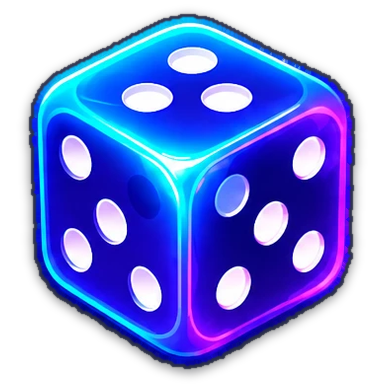
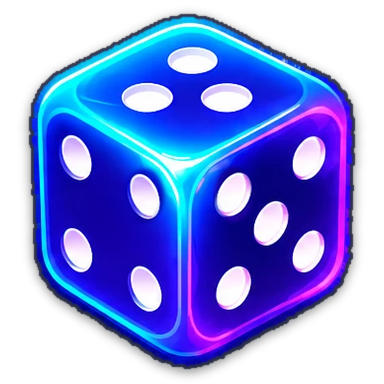
v4.63: roleta "Ouro com luzes" e ícone do dado corrigido
- Novo estilo de roleta (ouro) com o aro, o botão azul e o ponteiro da arte da
  Alex (assets/roleta/aro.png, borda limpa); fatias e nomes continuam
  desenhados pelo app por baixo do aro; nomes terminam antes da ponta do ponteiro.
- Entrada no menu de estilos (botão de paleta) com miniatura e textos em
  pt/en/es/de; setas do Tambor usam o ponteiro do estilo escolhido.
- Ícone do modo Dados: face esquerda ganhou o 4 (sem a mancha escura) e a face
  direita teve a bolinha azulada pintada de branco; topo 3, esquerda 4, direita 5.

Claude-Session: https://claude.ai/code/session_015dQVX5he81UZAVxRVU3HWs

Changed region(s): [[0.2188, 0.4375, 0.4375, 0.6562], [0.5312, 0.4062, 0.6562, 0.5938]]

diff --git a/src/screens/RouletteScreen.js b/src/screens/RouletteScreen.js
@@ -2,7 +2,7 @@ import React, { useEffect, useRef, useState } from 'react';
 import { View, Animated, Easing, PanResponder, useWindowDimensions, StyleSheet } from 'react-native';
 import Text from '../components/Text';
 import Svg, { Path, Circle, Polygon, Defs, RadialGradient, Stop, Text as SvgText } from 'react-native-svg';
-import { lookOf, rimWidth, WheelRim, WheelHub, WheelPointer } from '../components/WheelArt';
+import { lookOf, rimWidth, WheelRim, WheelHub, WheelPointer, WheelBezel, bezelGeom, IMG } from '../components/WheelArt';
 import Header from '../components/Header';
 import ScreenTitle from '../components/ScreenTitle';
 import LightningField from '../components/LightningField';
@@ -33,10 +33,13 @@ const Wheel = React.memo(function Wheel({ participants, size, look }) {
   const slice = 360 / n;
   const c = size / 2;
   const u = size / 380;
-  const r = c - 3 - rimWidth(look, size, RIM);
+  const img = !!(look && look.image); // estilo de imagem: o disco vai até debaixo do aro e só parte dele aparece
+  const k = img ? c / IMG.disc : 1;   // px da tela por px da imagem
+  const r = img ? c - 2 : c - 3 - rimWidth(look, size, RIM);
+  const rVis = img ? IMG.vis * k : r; // até onde as fatias sempre aparecem
   // nomes na vertical (ao longo do raio, lendo do centro para a borda): cabe bem mais letras do que de lado
-  const rIn = r * 0.26, rOut = r * 0.95;
-  const fontSize = Math.max(9, Math.min(17, r * 0.3 * ((2 * Math.PI) / n) * 0.8)); // fatias estreitas = letra menor
+  const rIn = img ? IMG.hub * k * 1.12 : r * 0.26, rOut = img ? Math.min(rVis * 0.95, (IMG.tip - 12) * k) : rVis * 0.95;
+  const fontSize = Math.max(9, Math.min(17, rVis * 0.3 * ((2 * Math.PI) / n) * 0.8)); // fatias estreitas = letra menor
   const maxChars = Math.max(4, Math.floor((rOut - rIn) / (fontSize * 0.58)));
   const cols = participants.map((p, i) => {
     let color = colorOf(p, i);
@@ -63,7 +66,7 @@ const Wheel = React.memo(function Wheel({ participants, size, look }) {
           <RadialGradient id="wsh" cx="0.5" cy="0.5" r="0.5">
             <Stop offset="0" stopColor="#000814" stopOpacity={look.shade} />
             <Stop offset="0.55" stopColor="#000814" stopOpacity={0} />
-            <Stop offset="1" stopColor="#FFFFFF" stopOpacity={0.12} />
+            <Stop offset="1" stopColor="#FFFFFF" stopOpacity={look.light !== undefined ? look.light : 0.12} />
           </RadialGradient>
         </Defs>
       )}
@@ -76,6 +79,13 @@ const Wheel = React.memo(function Wheel({ participants, size, look }) {
       {look && <Circle cx={c} cy={c} r={r} fill="url(#wsh)" />}
       {look && look.rays && <Path d={rayL} stroke="#FFFFFF" strokeOpacity={0.1} strokeWidth={1} fill="none" />}
       {look && look.rays && <Path d={rayD} stroke="#000814" strokeOpacity={0.12} strokeWidth={1} fill="none" />}
+      {/* brilho de quina (como na arte): um fio claro colado na divisória de cada fatia e outro no arco de fora */}
+      {look && look.gloss && participants.map((p, i) => {
+        const a0 = i * slice + Math.min(1.4, slice * 0.08), a1 = (i + 1) * slice - Math.min(1.4, slice * 0.08);
+        const rg = rVis * 0.975;
+        const d = `M ${pt(c, a0, rIn * 1.05)} L ${pt(c, a0, rg)} A ${rg} ${rg} 0 ${slice > 180 ? 1 : 0} 1 ${pt(c, a1, rg)}`;
+        return <Path key={`g${p.id}`} d={d} stroke="#FFFFFF" strokeOpacity={0.38} strokeWidth={Math.max(1, 1.5 * u)} strokeLinecap="round" strokeLinejoin="round" fill="none" />;
+      })}
       {participants.map((p, i) => {
         const a0 = i * slice;
         const color = cols[i];
@@ -328,6 +338,9 @@ export default function RouletteScreen({ participants, back, replace, addHistory
       {/* área de deslize: vai do subtítulo até o botão GIRAR */}
       <View {...pan.panHandlers} style={styles.zone} onLayout={(e) => { setZoneY(e.nativeEvent.layout.y); setZoneH(e.nativeEvent.layout.height); }}>
         <View style={styles.zoneInner} onLayout={(e) => setInnerY(e.nativeEvent.layout.y)}>
+          {look && look.image ? (
+            <View style={{ height: 34 }} /> /* o ponteiro faz parte da imagem do aro; este espaço mantém a roda no mesmo lugar */
+          ) : (
           <Animated.View style={[styles.pointer, { transform: [{ rotate: pointerRot }] }]}>
             {look ? <WheelPointer look={look} /> : (
               <Svg width={50} height={60} viewBox="0 0 50 60">
@@ -336,6 +349,17 @@ export default function RouletteScreen({ participants, back, replace, addHistory
               </Svg>
             )}
           </Animated.View>
+          )}
+          {look && look.image ? (
+            <View style={{ width: size, height: size }}>
+              {(() => { const g = bezelGeom(size); return (
+                <Animated.View style={{ position: 'absolute', left: g.disc.left, top: g.disc.top, width: g.disc.D, height: g.disc.D, transform: [{ rotate }] }}>
+                  <Wheel participants={participants} size={g.disc.D} look={look} />
+                </Animated.View>
+              ); })()}
+              <WheelBezel size={size} />
+            </View>
+          ) : (
           <View style={{ width: size, height: size }}>
             <Animated.View style={{ width: size, height: size, transform: [{ rotate }] }}>
               <Wheel participants={participants} size={size} look={look} />
@@ -343,6 +367,7 @@ export default function RouletteScreen({ participants, back, replace, addHistory
             </Animated.View>
             {look && <WheelHub size={size} look={look} />}
           </View>
+          )}
           {showArrows && (
             <View style={[styles.arrows, spinning && { opacity: 0 }]} pointerEvents="none" importantForAccessibility="no-hide-descendants" accessibilityElementsHidden>
               <SwipeArrows active={!spinning} />

diff --git a/src/i18n.js b/src/i18n.js
@@ -143,7 +143,7 @@ const pt = {
   'look.btn': 'Estilo visual',
   'look.hint': 'Segure por 1 segundo para escolher o estilo',
   'look.title.wheel': 'Estilo da roleta', 'look.title.dice': 'Estilo dos dados',
-  'look.wheel.atual': 'Clássica', 'look.wheel.neon': 'Neon violeta', 'look.wheel.rubi': 'Rubi e azul', 'look.wheel.arco': 'Arco-íris', 'look.wheel.laranja': 'Laranja',
+  'look.wheel.atual': 'Clássica', 'look.wheel.neon': 'Neon violeta', 'look.wheel.rubi': 'Rubi e azul', 'look.wheel.arco': 'Arco-íris', 'look.wheel.laranja': 'Laranja', 'look.wheel.ouro': 'Ouro com luzes',
   'look.dice.plastic': 'Clássico', 'look.dice.neon': 'Vidro neon', 'look.dice.cartoon': 'Plástico com contorno', 'look.dice.gold': 'Aro dourado',
   'look.close': 'Fechar', 'look.selected': 'selecionado', 'look.chosen': 'Estilo {name}',
   'look.moveL': 'Mover para a esquerda', 'look.moveR': 'Mover para a direita', 'look.moveU': 'Mover para cima', 'look.moveD': 'Mover para baixo',
@@ -287,7 +287,7 @@ const en = {
   'look.btn': 'Visual style',
   'look.hint': 'Hold for 1 second to choose the style',
   'look.title.wheel': 'Wheel style', 'look.title.dice': 'Dice style',
-  'look.wheel.atual': 'Classic', 'look.wheel.neon': 'Violet neon', 'look.wheel.rubi': 'Ruby and blue', 'look.wheel.arco': 'Rainbow', 'look.wheel.laranja': 'Orange',
+  'look.wheel.atual': 'Classic', 'look.wheel.neon': 'Violet neon', 'look.wheel.rubi': 'Ruby and blue', 'look.wheel.arco': 'Rainbow', 'look.wheel.laranja': 'Orange', 'look.wheel.ouro': 'Gold with lights',
   'look.dice.plastic': 'Classic', 'look.dice.neon': 'Neon glass', 'look.dice.cartoon': 'Outlined plastic', 'look.dice.gold': 'Gold rim',
   'look.close': 'Close', 'look.selected': 'selected', 'look.chosen': '{name} style',
   'look.moveL': 'Move left', 'look.moveR': 'Move right', 'look.moveU': 'Move up', 'look.moveD': 'Move down',
@@ -431,7 +431,7 @@ const es = {
   'look.btn': 'Estilo visual',
   'look.hint': 'Mantén pulsado 1 segundo para elegir el estilo',
   'look.title.wheel': 'Estilo de la ruleta', 'look.title.dice': 'Estilo de los dados',
-  'look.wheel.atual': 'Clásica', 'look.wheel.neon': 'Neón violeta', 'look.wheel.rubi': 'Rubí y azul', 'look.wheel.arco': 'Arcoíris', 'look.wheel.laranja': 'Naranja',
+  'look.wheel.atual': 'Clásica', 'look.wheel.neon': 'Neón violeta', 'look.wheel.rubi': 'Rubí y azul', 'look.wheel.arco': 'Arcoíris', 'look.wheel.laranja': 'Naranja', 'look.wheel.ouro': 'Oro con luces',
   'look.dice.plastic': 'Clásico', 'look.dice.neon': 'Cristal neón', 'look.dice.cartoon': 'Plástico con contorno', 'look.dice.gold': 'Borde dorado',
   'look.close': 'Cerrar', 'look.selected': 'seleccionado', 'look.chosen': 'Estilo {name}',
   'look.moveL': 'Mover a la izquierda', 'look.moveR': 'Mover a la derecha', 'look.moveU': 'Mover hacia arriba', 'look.moveD': 'Mover hacia abajo',
@@ -575,7 +575,7 @@ const de = {
   'look.btn': 'Optik',
   'look.hint': '1 Sekunde gedrückt halten, um den Stil zu wählen',
   'look.title.wheel': 'Stil des Glücksrads', 'look.title.dice': 'Stil der Würfel',
-  'look.wheel.atual': 'Klassisch', 'look.wheel.neon': 'Violettes Neon', 'look.wheel.rubi': 'Rubin und Blau', 'look.wheel.arco': 'Regenbogen', 'look.wheel.laranja': 'Orange',
+  'look.wheel.atual': 'Klassisch', 'look.wheel.neon': 'Violettes Neon', 'look.wheel.rubi': 'Rubin und Blau', 'look.wheel.arco': 'Regenbogen', 'look.wheel.laranja': 'Orange', 'look.wheel.ouro': 'Gold mit Lichtern',
   'look.dice.plastic': 'Klassisch', 'look.dice.neon': 'Neon-Glas', 'look.dice.cartoon': 'Kunststoff mit Kontur', 'look.dice.gold': 'Goldrand',
   'look.close': 'Schließen', 'look.selected': 'ausgewählt', 'look.chosen': 'Stil {name}',
   'look.moveL': 'Nach links', 'look.moveR': 'Nach rechts', 'look.moveU': 'Nach oben', 'look.moveD': 'Nach unten',

diff --git a/src/components/WheelArt.js b/src/components/WheelArt.js
@@ -1,4 +1,5 @@
 import React, { useEffect, useState } from 'react';
+import { View, Image } from 'react-native';
 import Svg, { Defs, RadialGradient, LinearGradient, Stop, Circle, Path, Polygon, G, Ellipse } from 'react-native-svg';
 import { FILL } from '../theme';
 import { getSettings } from '../settings';
@@ -55,7 +56,56 @@ const LOOKS = {
     hub: { ring: ['#FFE9A6', '#E9A21B', '#8F5200'], orb: ['#FFA6CF', '#E0115F', '#5E0830'], bolt: ['#FFFFFF', '#FFD9EA'] },
     pointer: { kind: 'gem', rim: ['#FFC266', '#FF7A00', '#A33C00'], gem: ['#C07BFF', '#5B1FA8', '#1D0A3D'] },
   },
+  // 5) ouro com luzes (arte do Alex): aro dourado com lâmpadas, botão azul e ponteiro de gota dourada vêm da IMAGEM
+  //    (assets/roleta/aro.png, com a área das fatias vazada); as fatias e os nomes continuam sendo desenhados pelo app.
+  //    Os campos de aro/lâmpadas abaixo só existem para o resto do código não quebrar: com image:true eles não são usados.
+  ouro: {
+    image: true,
+    rim: 0,
+    outer: { c: '#FFD166', glow: '#F59E0B', w: 3 },
+    inner: { c: '#2F8BFF', hl: '#BDEBFF', w: 3 },
+    tube: [['#8A4B00', 1], ['#E9A21B', 0.7], ['#FFD166', 0.4]],
+    bulbs: { kind: 'dot', r: 3.2, on: '#FFFBE0', off: '#B8860B' },
+    divider: { c: '#0A0A26', w: 3 }, rays: false, shade: 0.2, light: 0, gloss: true,
+    hub: { ring: ['#FFE9A6', '#E9A21B', '#8F5200'], orb: ['#F4FEFF', '#7DD0FF', '#2468E0'], bolt: ['#1559D8', '#FFFFFF'] },
+    pointer: { kind: 'gem', rim: ['#FFE28F', '#F59E0B', '#B45309'], gem: ['#FFF7B0', '#FFC21A', '#C77700'] },
+  },
 };
+
+// Medidas da imagem do aro (em pixels da imagem original, 1232 x 1230):
+//   cx, cy, R = centro e raio de fora do aro · hx, hy = centro do botão azul (as fatias giram em volta dele)
+//   disc = raio do disco de fatias (passa por baixo do aro) · vis = raio que sempre aparece dentro do aro · hub = raio do botão
+//   tip = distância da ponta do ponteiro até o centro (os nomes terminam antes dela, para o ponteiro não cobrir o fim do nome vencedor)
+export const IMG = { w: 1232, h: 1230, cx: 624.0, cy: 622.3, R: 594, hx: 625.5, hy: 626.0, disc: 538, vis: 488, hub: 116, tip: 429 };
+const ARO = require('../../assets/roleta/aro.png');
+const ARO_MINI = require('../../assets/roleta/aro_mini.png');
+
+// Onde cada peça fica numa roda de `size` px (o tamanho é o diâmetro de fora do aro)
+export function bezelGeom(size) {
+  const s = size / (2 * IMG.R);
+  const hx = size / 2 + (IMG.hx - IMG.cx) * s, hy = size / 2 + (IMG.hy - IMG.cy) * s;
+  return {
+    s,
+    img: { left: size / 2 - IMG.cx * s, top: size / 2 - IMG.cy * s, width: IMG.w * s, height: IMG.h * s },
+    disc: { D: 2 * IMG.disc * s, left: hx - IMG.disc * s, top: hy - IMG.disc * s },
+    hub: { x: hx, y: hy, r: IMG.hub * s },
+  };
+}
+
+// Aro de imagem (parado, por cima das fatias): sombra do botão + a imagem com o buraco das fatias
+export const WheelBezel = React.memo(function WheelBezel({ size, mini }) {
+  const g = bezelGeom(size);
+  return (
+    <View pointerEvents="none" style={{ position: 'absolute', left: 0, top: 0, width: size, height: size }}>
+      {!mini && (
+        <Svg width={size} height={size} style={FILL}>
+          <Circle cx={g.hub.x} cy={g.hub.y + g.hub.r * 0.04} r={g.hub.r + 2.5 * (size / 380)} fill="#000814" fillOpacity={0.5} />
+        </Svg>
+      )}
+      <Image source={mini ? ARO_MINI : ARO} resizeMode="stretch" fadeDuration={0} style={{ position: 'absolute', ...g.img }} />
+    </View>
+  );
+});
 
 export const WHEEL_LOOKS = ['atual', ...Object.keys(LOOKS)];
 export const lookOf = (name) => LOOKS[name] || null;       // 'atual' (ou nome desconhecido) = null = desenho de sempre

diff --git a/src/components/LookThumbs.js b/src/components/LookThumbs.js
@@ -1,7 +1,7 @@
 import React from 'react';
 import { View } from 'react-native';
 import Svg, { Circle, Path, Rect, Ellipse } from 'react-native-svg';
-import { lookOf, WheelRing } from './WheelArt';
+import { lookOf, WheelRing, WheelBezel, bezelGeom, IMG } from './WheelArt';
 
 // Miniaturas do menu de estilos (roleta e dados). Só traços e cores lisas (sem degradês),
 // então várias miniaturas na mesma tela não se confundem entre si.
@@ -15,6 +15,22 @@ const polar = (c, deg, r) => {
 // Roleta: fatias coloridas + o aro do estilo (o mesmo desenho da roda, em ponto pequeno) + centro
 export function WheelThumb({ look: name, size = 36 }) {
   const look = lookOf(name);
+  if (look && look.image) {
+    // estilo de imagem: fatias lisas por baixo e a imagem do aro (versão pequena) por cima
+    const g = bezelGeom(size);
+    const r = IMG.vis * 0.97 * g.s;
+    const pp = (deg) => { const a = (deg * Math.PI) / 180; return `${(g.hub.x + r * Math.sin(a)).toFixed(2)} ${(g.hub.y - r * Math.cos(a)).toFixed(2)}`; };
+    return (
+      <View style={{ width: size, height: size }}>
+        <Svg width={size} height={size} style={{ position: 'absolute', left: 0, top: 0 }}>
+          {SLICES.map((col, i) => (
+            <Path key={i} d={`M ${g.hub.x} ${g.hub.y} L ${pp(i * 60)} A ${r} ${r} 0 0 1 ${pp((i + 1) * 60)} Z`} fill={col} />
+          ))}
+        </Svg>
+        <WheelBezel size={size} mini />
+      </View>
+    );
+  }
   const c = size / 2;
   // o aro de verdade é fino demais para 36 px: nas miniaturas ele fica mais grosso
   const big = look && {

diff --git a/src/looks.js b/src/looks.js
@@ -1,13 +1,13 @@
 // Estilos da roleta e dos dados que o usuário pode escolher (pelo botão flutuante de paleta).
 // A escolha fica salva nas configurações (wheelLook / diceLook); aqui ficam só as listas e o padrão de quem ainda não escolheu.
-//   wheel: 'atual' | 'neon' | 'rubi' | 'arco' | 'laranja'   (veja src/components/WheelArt.js)
+//   wheel: 'atual' | 'neon' | 'rubi' | 'arco' | 'laranja' | 'ouro'   (veja src/components/WheelArt.js)
 //   dice:  'plastic' | 'neon' | 'cartoon' | 'gold'          (veja src/components/Dice3D.js; 'metal' também existe lá, mas fica fora do menu)
 // Para mudar o estilo que aparece na primeira abertura do app, troque só DEFAULT_LOOKS.
 export const DEFAULT_LOOKS = { wheel: 'atual', dice: 'plastic' };
 
 // ordem em que os estilos aparecem no menu
 export const LOOK_OPTIONS = {
-  wheel: ['atual', 'neon', 'rubi', 'arco', 'laranja'],
+  wheel: ['atual', 'neon', 'rubi', 'arco', 'laranja', 'ouro'],
   dice: ['plastic', 'neon', 'cartoon', 'gold'],
 };
 

diff --git a/README.md b/README.md
@@ -13,7 +13,7 @@ Aplicativo de sorteios feito em **React Native (Expo)** com foco em **imersão e
 | Modo | Como funciona |
 |---|---|
 | ⚡ **Tambor** | Os nomes giram na vertical, como um caça-níquel; começa em GIRAR e para na hora quando você toca em PARAR (o nome do centro vence). O próprio tambor 3D de bingo (azul, com aros dourados, suporte de dois cavaletes em A de tábuas planas e manivela, como no ícone do modo; tudo desenhado em SVG) é a janela do sorteio: cada nome fica numa faixa arredondada com bonequinho, como no ícone do modo, e as faixas dão a volta no corpo do tambor (30° por nome). A faixa do centro brilha, o tambor gira junto (emendas e manivela) e para com o nome sorteado, que toma a cor do participante. O nome sempre cabe na faixa (a letra encolhe e nomes longos são abreviados). O azul do tambor segue o tema de cor do app (as cores do desenho foram medidas nos pixels do ícone do modo; para voltar à paleta antiga basta trocar `PALETA` para `'classica'` no topo de `DrumArt.js`; também há a chave `MODELO`: `'eletrico'` (padrão: sem manivela, com um motor de ponta brilhante, neon nos aros, núcleo de energia no disco e arcos elétricos enquanto gira, no motor e na borda do aro da esquerda, que somem no modo de movimento reduzido; não há mais raios no fundo da tela); duas setinhas bem pequenas, uma de cada lado do tambor (no mesmo estilo do ponteiro da roleta, inclusive o escolhido no botão de paleta), apontam para a faixa do meio e marcam onde sai o nome vencedor ou `'manivela'` (o modelo com manivela de mão)) |
-| 🎡 **Roleta** | Roleta imersiva: toque ou deslize o dedo em qualquer lugar da área (esquerda = horário, direita = anti-horário), com setas de néon de apoio e botão PARAR que para na hora; listas prontas e som de ticks; 5 estilos de roda à escolha (botão de paleta) |
+| 🎡 **Roleta** | Roleta imersiva: toque ou deslize o dedo em qualquer lugar da área (esquerda = horário, direita = anti-horário), com setas de néon de apoio e botão PARAR que para na hora; listas prontas e som de ticks; 6 estilos de roda à escolha (botão de paleta); o estilo **Ouro com luzes** usa o aro dourado com lâmpadas, o botão azul e o ponteiro desenhados pela Alex (`assets/roleta/aro.png`), com as fatias e os nomes desenhados pelo app por baixo do aro; nele o ponteiro é parte da imagem (não balança) e as lâmpadas ficam fixas, e as setinhas do Tambor viram gotas douradas |
 | 🎲 **Dados** | Dados 3D em quantidade escolhida (1, 2, 3 ou mais), com cores à escolha e 4 estilos de dado (botão de paleta); o maior número vence. Com mais de 12 participantes, o sorteio é feito em baterias, até 48 |
 | 🏁 **Corrida de bolinhas** | Cada participante é uma bolinha brilhante numa pista neon (borda acesa, raias com linhas de luz, largada e chegada iluminadas); a primeira a chegar vence, quem está na frente ganha um anel dourado e os raios podem eliminar bolinhas no caminho. Com mais de 12 participantes, a corrida é feita em baterias (até 48) e os vencedores disputam a final |
 | 🪙 **Cara ou coroa** | A moeda gira com física própria e decide entre dois lados: **Cara** (moeda azul com estrela) e **Coroa** (moeda dourada com coroa) |
@@ -86,7 +86,7 @@ O perfil `preview` do `eas.json` precisa estar configurado com `"buildType": "ap
 flash-random/
 ├── App.js                 # pilha de telas, configurações e fundo
 ├── index.js               # ponto de entrada do Expo
-├── assets/                # ícone do app, logo, ícones dos modos, moedas, troféus, fontes e sons
+├── assets/                # ícone do app, logo, ícones dos modos (o dado tem faces com 3, 4 e 5 bolinhas), aro da roleta (roleta/), moedas, troféus, fontes e sons
 └── src/
     ├── screens/           # telas: início, sorteios, resultado, histórico, ajustes
     │   └── home/          # início nos perfis Normal e Vidro
